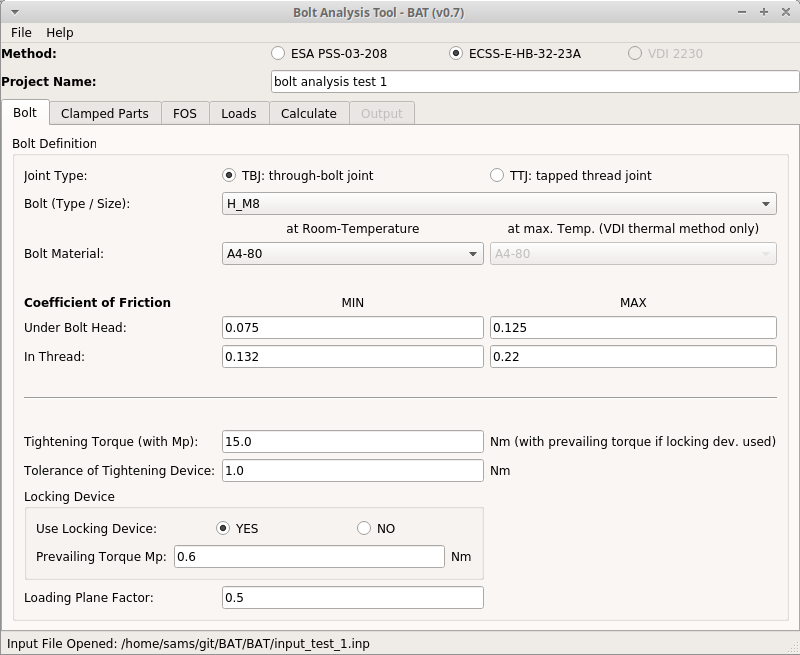
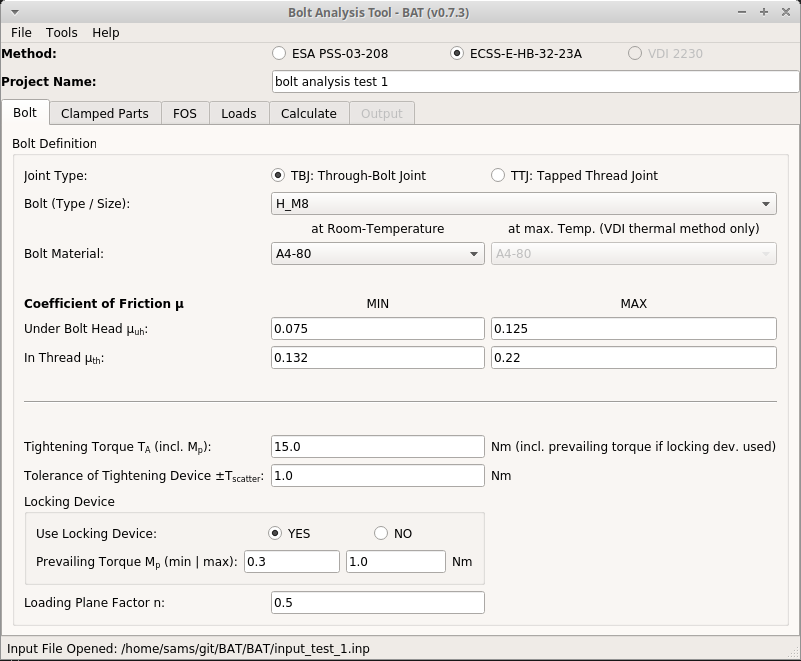
v0.7.3

diff --git a/BAT/src/EsaPss.py b/BAT/src/EsaPss.py
@@ -151,7 +151,7 @@ class EsaPss(BoltAnalysisBase):
         TAmin = TA - Tscatter
         TAmax = TA + Tscatter
         # min / max init. preload after tightening (*1000 to get N)
-        self.F_M = [(TAmin-self.M_p)/Kmax*1000, (TAmax-self.M_p)/Kmin*1000]
+        self.F_M = [(TAmin-self.M_p[1])/Kmax*1000, (TAmax-self.M_p[0])/Kmin*1000]
         # calculate tightening factor (preload scatter incl. friction and tight. dev. tolerance)
         self.alpha_A = self.F_M[1]/self.F_M[0]
         # check if VDI thermal method is used 
@@ -333,14 +333,14 @@ class EsaPss(BoltAnalysisBase):
         output_str += "{0:=^95}\n".format('=') # global splitter
         output_str += "| {0:^91} |\n".format("ESA PSS-03-208 Issue 1 ANALYSIS RESULTS")
         output_str += "{0:=^95}\n".format('=')
-        output_str += "| {0:<50} {1:^20.1f} {2:^20}|\n".format(\
-            "Tightening torque with prevailing torque [Nm]:", self.inp_file.tight_torque, "")
-        output_str += "| {0:<50} {1:^20.1f} {2:^20}|\n".format(\
-            "Prevailing torque [Nm]:", self.M_p, "")
-        output_str += "| {0:<50} {1:^20.1f} {2:^20}|\n".format(\
-            "Tightening torque w/o prevailing torque [Nm]:", \
-                self.inp_file.tight_torque-self.M_p, "")
-        output_str += "|{0:-^93}|\n".format('-') # empty line within section
+        #output_str += "| {0:<50} {1:^20.1f} {2:^20}|\n".format(\
+        #    "Tightening torque with prevailing torque [Nm]:", self.inp_file.tight_torque, "")
+        #output_str += "| {0:<50} {1:^20.1f} {2:^20}|\n".format(\
+        #    "Prevailing torque [Nm]:", self.M_p, "")
+        #output_str += "| {0:<50} {1:^20.1f} {2:^20}|\n".format(\
+        #    "Tightening torque w/o prevailing torque [Nm]:", \
+        #        self.inp_file.tight_torque-self.M_p, "")
+        #output_str += "|{0:-^93}|\n".format('-') # empty line within section
         output_str += "| {0:<50} {1:^20.2f} {2:^20}|\n".format(\
             "Clamped length l_K [mm]:", self.l_K, "")
         output_str += "| {0:<50} {1:^20.2f} {2:^20}|\n".format(\
@@ -370,12 +370,20 @@ class EsaPss(BoltAnalysisBase):
         output_str += "{0:=^95}\n".format('=') # global splitter
         output_str += "| {0:^50}|{1:^20}|{2:^20}|\n".format("", "MIN (mu_max)", "MAX (mu_min)")
         output_str += "{0:=^95}\n".format('=')
+        output_str += "| {0:<50}|{1:^41.1f}|\n".format(\
+            "Tightening torque with prevailing torque [Nm]:", self.inp_file.tight_torque)
+        output_str += "| {0:<50}|{1:^20.1f}|{2:^20.1f}|\n".format(\
+            "Prevailing torque (max | min) [Nm]:", self.M_p[1], self.M_p[0])
+        output_str += "| {0:<50}|{1:^20.1f}|{2:^20.1f}|\n".format(\
+            "Tightening torque w/o prevailing torque [Nm]:", self.inp_file.tight_torque-self.M_p[1],\
+                self.inp_file.tight_torque-self.M_p[0])
+        output_str += "|-{0:-^50}+{1:-^20}+{2:-^20}|\n".format("-", "-", "-") # empty line in table
         output_str += "| {0:<50}|{1:^20.3f}|{2:^20.3f}|\n".format(\
-            "Coefficient of friction under bolt head:", self.inp_file.cof_bolt[2],\
-                self.inp_file.cof_bolt[0])
+            "Coefficient of friction under bolt head:", self.inp_file.cof_bolt[0],\
+                self.inp_file.cof_bolt[2])
         output_str += "| {0:<50}|{1:^20.3f}|{2:^20.3f}|\n".format(\
-            "Coefficient of friction in thread:", self.inp_file.cof_bolt[3],\
-                self.inp_file.cof_bolt[1])
+            "Coefficient of friction in thread:", self.inp_file.cof_bolt[1],\
+                self.inp_file.cof_bolt[3])
         output_str += "| {0:<50}|{1:^41.2f}|\n".format(\
             "Coefficient of friction between clamped parts:", self.inp_file.cof_clamp)
         output_str += "|-{0:-^50}+{1:-^20}+{2:-^20}|\n".format("-", "-", "-") # empty line in table

diff --git a/BAT/src/bat_qt_gui.py b/BAT/src/bat_qt_gui.py
@@ -70,7 +70,8 @@ class Ui(QtWidgets.QMainWindow):
         self.radioLockYes.toggled.connect(self.lockRadioClicked)
         self.radioLockNo = self.findChild(QtWidgets.QRadioButton, "radioLockNo")
         self.radioLockNo.toggled.connect(self.lockRadioClicked)
-        self.prevailingTorque = self.findChild(QtWidgets.QLineEdit, "prevailingTorque")
+        self.Mp_min = self.findChild(QtWidgets.QLineEdit, "Mp_min")
+        self.Mp_max = self.findChild(QtWidgets.QLineEdit, "Mp_max")
         self.loadingPlaneFactor = self.findChild(QtWidgets.QLineEdit, "loadingPlaneFactor")
         # Clamped Parts tab
         self.cofClampedParts = self.findChild(QtWidgets.QLineEdit, "cofClampedParts")
@@ -222,7 +223,8 @@ class Ui(QtWidgets.QMainWindow):
         self.tightTorque.setText('')
         self.tightTorqueTol.setText('')
         self.radioLockYes.setChecked(True)
-        self.prevailingTorque.setText('')
+        self.Mp_min.setText('')
+        self.Mp_max.setText('')
         self.loadingPlaneFactor.setText("0.5")
         # clamped parts tab
         self.cofClampedParts.setText('')
@@ -278,9 +280,11 @@ class Ui(QtWidgets.QMainWindow):
         radioButton = self.sender()
         if radioButton.isChecked():
             if radioButton.text()=="YES":
-                self.prevailingTorque.setEnabled(True)
+                self.Mp_min.setEnabled(True)
+                self.Mp_max.setEnabled(True)
             elif radioButton.text()=="NO":
-                self.prevailingTorque.setEnabled(False)
+                self.Mp_min.setEnabled(False)
+                self.Mp_max.setEnabled(False)
 
     # use-shim checkbox (includes useVdiChecked() method)
     def useShimChecked(self):
@@ -453,6 +457,8 @@ class Ui(QtWidgets.QMainWindow):
     def openInput(self, openedFileName):
         # read and parse input file
         self.openedInputFile = InputFileParser(openedFileName, self.bolts)
+        # reset self.inp_dir and save new directory-path
+        self.inp_dir = os.path.dirname(openedFileName)
         #
         # fill gui
         if self.openedInputFile.method == "ESAPSS":
@@ -494,10 +500,12 @@ class Ui(QtWidgets.QMainWindow):
         self.tightTorqueTol.setText(str(self.openedInputFile.torque_tol_tight_device))
         if self.openedInputFile.locking_mechanism == "yes":
             self.radioLockYes.setChecked(True)
-            self.prevailingTorque.setText(str(self.openedInputFile.prevailing_torque))
+            self.Mp_min.setText(str(self.openedInputFile.prevailing_torque[0]))
+            self.Mp_max.setText(str(self.openedInputFile.prevailing_torque[1]))
         else:
             self.radioLockNo.setChecked(True)
-            self.prevailingTorque.setEnabled(False)
+            self.Mp_min.setEnabled(False)
+            self.Mp_max.setEnabled(False)
         self.loadingPlaneFactor.setText(str(self.openedInputFile.loading_plane_factor))
         #
         # clamped parts tab
@@ -696,7 +704,7 @@ class Ui(QtWidgets.QMainWindow):
             self.gih.locking_mechanism = "no"
         else:
             self.gih.locking_mechanism = "yes"
-            self.gih.prevailing_torque = float(self.prevailingTorque.text())
+            self.gih.prevailing_torque = (float(self.Mp_min.text()),float(self.Mp_max.text()))
         self.gih.loading_plane_factor = float(self.loadingPlaneFactor.text())
         # Clamped Parts tab
         self.gih.cof_clamp = float(self.cofClampedParts.text())

diff --git a/BAT/src/gui/GuiInputHandler.py b/BAT/src/gui/GuiInputHandler.py
@@ -15,7 +15,7 @@ class GuiInputHandler:
         self.tight_torque = 0.0 # also use "STD"
         self.torque_tol_tight_device = 0.0 # optional
         self.locking_mechanism = "" # e.g. Helicoil
-        self.prevailing_torque = 0.0 # only used if *LOCKING_MECHANISM = yes
+        self.prevailing_torque = None # [min, max] only used if *LOCKING_MECHANISM = yes
         self.loading_plane_factor = 0.0
         # clamped-parts-definition-block
         self.cof_clamp = 0.0 # min. coefficient of friction between clamped parts
@@ -144,8 +144,9 @@ class GuiInputHandler:
                 comment="torque wrench tolerance")
             output_str += "    *LOCKING_MECHANISM = {0:^} # {comment:^}\n".format(self.locking_mechanism, \
                 comment="\"yes\" or \"no\", e.g. yes for Helicoil")
-            output_str += "    *PREVAILING_TORQUE = {0:.2f} # {comment:^}\n".format(self.prevailing_torque, \
-                comment="only used if *LOCKING_MECHANISM = yes")
+            output_str += "    *PREVAILING_TORQUE = [{0:.2f}, {1:.2f}] # {comment:^}\n".format(\
+                self.prevailing_torque[0], self.prevailing_torque[1],\
+                comment="[min, max] only used if *LOCKING_MECHANISM = yes")
             output_str += "    *LOADING_PLANE_FACTOR = {0:.3f}\n".format(self.loading_plane_factor)
             output_str += "*BOLT_DEFINITION_END\n\n"
             # definition of clamped parts

diff --git a/BAT/doc/BAT_doc/LaTex/chapter/symbols.tex b/BAT/doc/BAT_doc/LaTex/chapter/symbols.tex
@@ -45,7 +45,7 @@
   $d_h$ & minimal contact diameter under bolt head \\
   $d_s$ & stress diameter of threaded bolt \\
   $D_{avail}$ & available diamter for compression zone \\
-  $D_{hol}$ & through-hole diameter (drilled bolt hole) \\
+  $D_{hole}$ & through-hole diameter (drilled bolt hole) \\
   $D_{Km}$ & effective diameter of under head/nut friction torque \\
   $D_{lim}$ & limiting diameter of compression zone \\
   $E_b$ & Young's Modulus of bolt \\

diff --git a/BAT/bat_main.py b/BAT/bat_main.py
@@ -13,12 +13,11 @@ import src.TorqueTable as torque_table
 import src.functions.exceptions as ex
 import src.bat_qt_gui as bat_qt_gui
 
-__version__ = "0.7.3-ALPHA"
+__version__ = "0.7.3"
 """
 Change Log:
-v0.7.3 - xx.xx.2021
+v0.7.3 - 30.01.2021
 - MIN / MAX prevailing torque M_p added
-- TODO: update GUI!! DOES not work currently!
 v0.7.2 - 02.01.2021
 - ECSS / ESA-PSS some bugs corrected (Mp implementation)
 - ECSS: 5% embedding added

diff --git a/README.md b/README.md
@@ -39,9 +39,13 @@ $ python bat_main.py --help
 ```shell
 $ python bat_main.py --gui
 ```
-![Example Screenshot BAT v0.6](https://github.com/misams/BAT/blob/master/BAT/doc/bat_example.png)
+![Example Screenshot BAT v0.7.3](https://github.com/misams/BAT/blob/master/BAT/doc/bat_example.png)
 
 ## Changelog
+### v0.7.3
+>30.01.2021
+- MIN / MAX prevailing torque M_p added
+
 ### v0.7.2
 >02.01.2021
 - ECSS / ESA-PSS some bugs corrected (Mp implementation)
